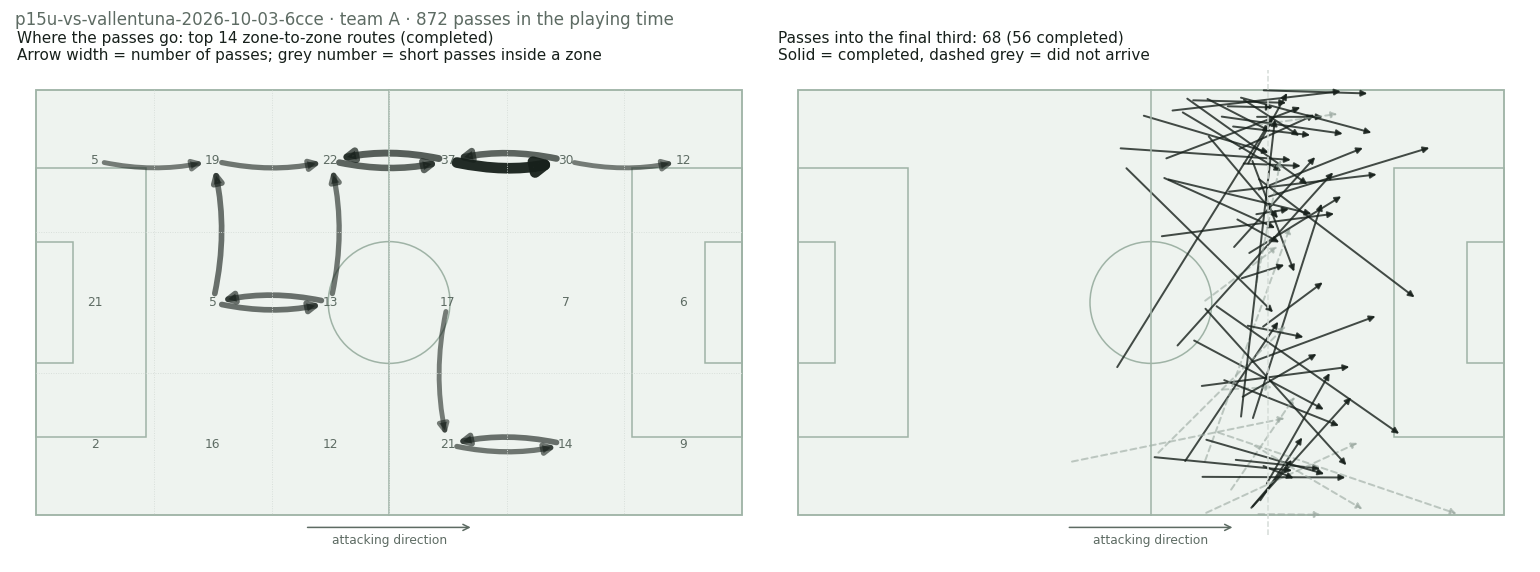
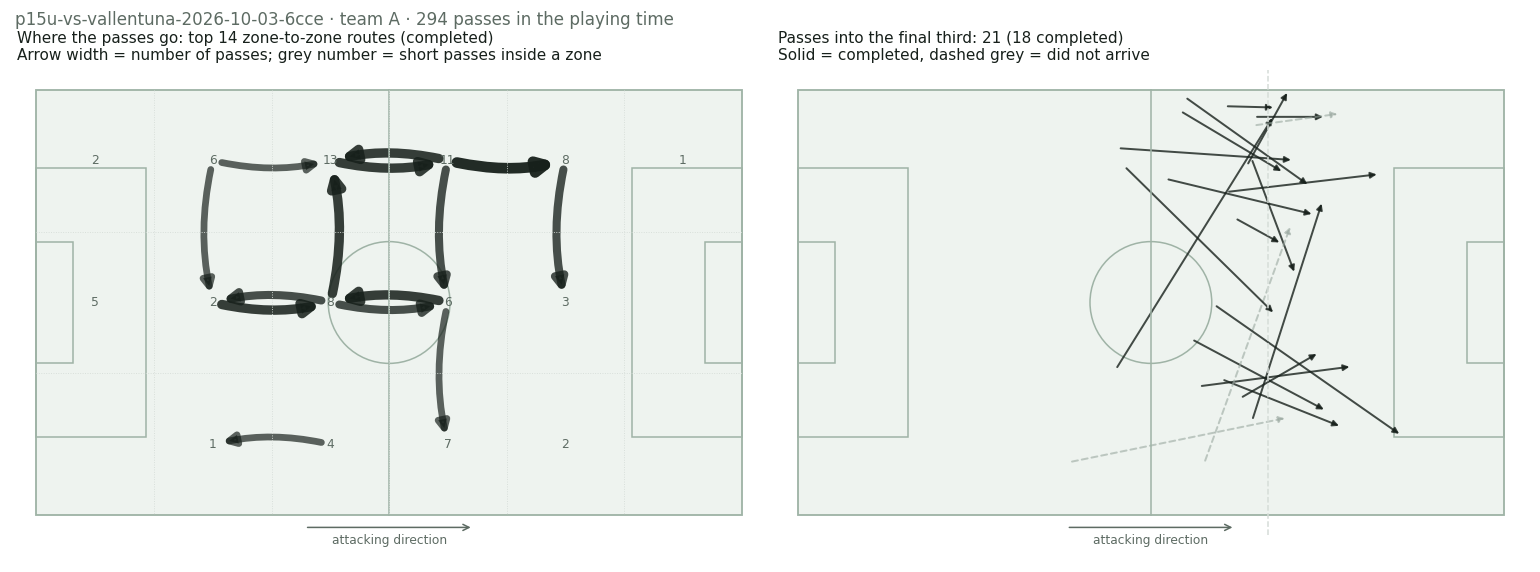
P-PASS: confirmed passes in the app (BP 167, AIK 225, Vallentuna 491)
Claude-Session: https://claude.ai/code/session_013ik1CRtD34J8661rJfnPBT

diff --git a/results/qa/pass_research_2026-10-06.md b/results/qa/pass_research_2026-10-06.md
@@ -68,3 +68,13 @@ The cause is the same as before. On this second-half clip in low sun our ball ch
 - Vallentuna 66:40 clip: our method alone gave 52 passes with 16 real. Confirmed by the model: **22 passes, 14–15 of them real, team right 12–13 of 14–15 (about 85%)**. The real number is 21.
 - In the pipeline: `analytics.confirm_passes`, used in `run.analyse` when `overrides/<match>_kicks.json` exists (env `IPANEMA_PASS_CONFIRM`; tolerance `IPANEMA_PASS_CONFIRM_TOL`). The kicks file is made from the full-match model run with `tools/make_kicks.py`.
 - Caveat: tuned on one tapped clip of 21 passes.
+
+## In the app (8 Oct, Daniel's go, 3 joins of about €0.30 each)
+| match | passes before | passes now (confirmed) | per min | SFK passes (completed) | opponent passes (completed) |
+|---|---|---|---|---|---|
+| SFK–BP, 1st half | 469 | 167 | 4.0 | 92 (86%) | 75 (81%) |
+| SFK–AIK, 1st half | 698 | 225 | 4.7 | 94 (78%) | 131 (82%) |
+| SFK–Vallentuna, full | 1406 | 491 | 6.0 | 294 (87%) | 197 (82%) |
+
+- Scores and possession are unchanged.
+- On the tapped clip the confirmed count was about right (22–23 against 21 real), but it found only about 2 of 3 real passes. The whole-match numbers may therefore be a little low rather than too high.
